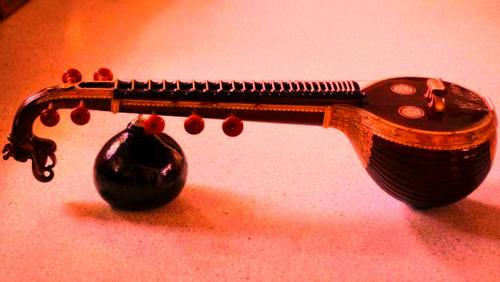
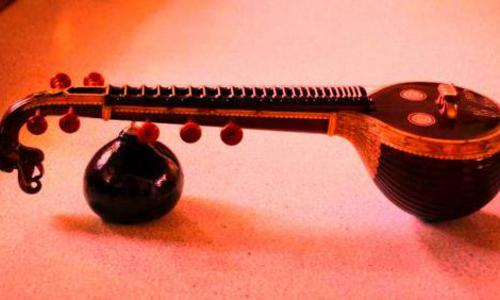
resize events images

diff --git a/gulpfile.js b/gulpfile.js
@@ -21,9 +21,9 @@ imagesEvents = ['./assets/img/events/2.jpg',
 gulp.task('resize', function () {
   gulp.src(imagesEvents)
     .pipe(imageResize({
-      height : 500,
+      height : 300,
       width : 500,
-      crop : false,
+      crop : true,
       upscale : true
     }))
     .pipe(gulp.dest('gulpimages'));
